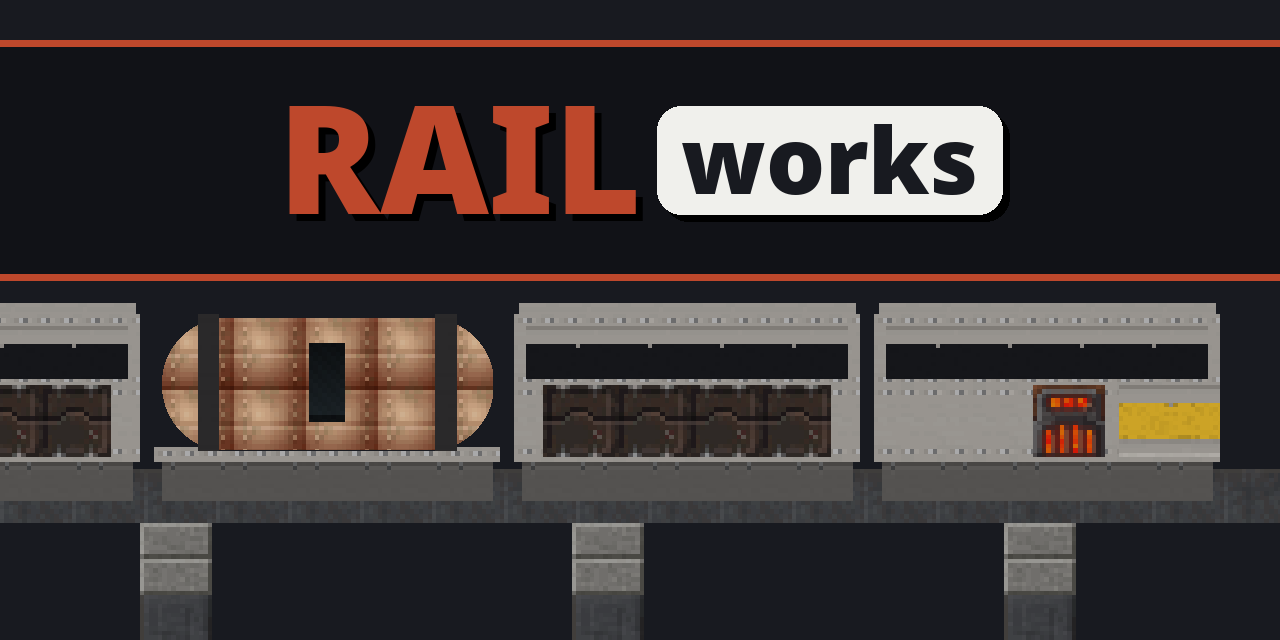
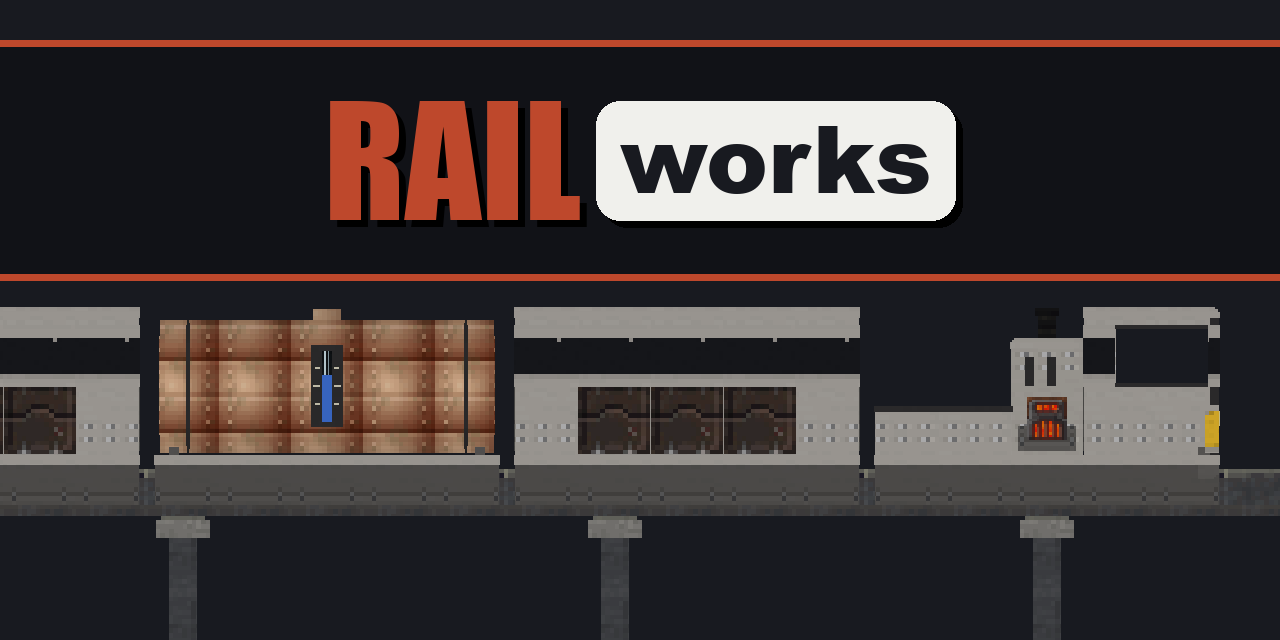
docs: draw the cars from CarBody, and write the blurb and summary
The cover and icon draw each car from its CarBody's boxes in the sprites
CarRenderer lays on them, and the Rail and Pylon at their real sizes, so
the Locomotives look like the game's. The icon centres its title band
between a Burner Train heading right and an Electric Train heading left,
and both are set in Impact as the other covers are. The summary and
mod_description now read "Automatic monorail trains that haul items and
fluids across your factory", and the README carries the maintainer's
blurb and "Why?".

Changed region(s): [[0.0, 0.4688, 1.0, 0.75], [0.2188, 0.1562, 0.7812, 0.3438], [0.0, 0.7812, 1.0, 1.0]]

diff --git a/publish/make-cover.py b/publish/make-cover.py
@@ -3,87 +3,171 @@
 
 # Cover and icon, in the suite's style (Wireworks' and Groundworks' make-cover.py): a row of Pylons
 # carrying the Rail, and a Train riding on it, seen from the side and drawn from Railworks' own
-# textures (scripts/build-textures.py), so nothing of Mojang's is in them (libworks ADR 0012). Run from
-# the repo root with Pillow installed.
+# textures (scripts/build-textures.py), so nothing of Mojang's is in them (libworks ADR 0012). Each car
+# is its CarBody's boxes, read from the compiled classes and laid in their panels' sprites as
+# CarRenderer lays them, so the cars are the game's own. Run from the repo root with Pillow installed,
+# after `sh ./gradlew compileJava`.
+import math
 import os
+import subprocess
+import tempfile
 
-from PIL import Image, ImageDraw, ImageFont
+from PIL import Image, ImageChops, ImageDraw, ImageFont
 
 T = 'src/main/resources/assets/railworks/textures/block/'
+CLASSES = 'build/classes/java/main'
 BG = (24, 26, 32)
 ACCENT = (190, 72, 44)  # rust red, the Rail's colour before it wore Riley's cement
 FADE = 50  # 0 leaves the scene at full strength, 255 hides it
 PYLON_PITCH = 6  # blocks between Pylons
-BEAM = 0.75  # the Rail's depth, in blocks
-# The Train from the front, each car's kind and length in blocks, as CarBody draws them
-TRAIN = [('burner', 5), ('cargo', 5), ('fluid', 5), ('cargo', 5)]
-GAP = 0.2  # between coupled bodies
+# RailGeometry: the flange the Rail rests on, the web the cars straddle, and its steel running strip
+FLANGE, WEB, STRIP = 0.15, 0.5, 2 / 16
+CAR_PITCH = 5  # coupled cars' middles apart
+# Each Train from the front, by the CarBody each car is
+TRAIN = ['burner', 'cargo', 'fluid', 'cargo']
+ELECTRIC_TRAIN = ['electric', 'fluid', 'fluid', 'cargo']
+FLUID = (63, 118, 228)  # what the Sight glasses show, water's blue as a flat colour
+FLUID_LEVEL = 0.65
 
+# CarRenderer.look, for a Locomotive holding fuel or charge: each panel's sprite, tint and how it is laid
+TILED, CENTRED, WHOLE, FLAT = 'tiled', 'centred', 'whole', 'flat'
+LOOKS = {
+    'SHELL': ('car/shell', None, TILED), 'ROOF': ('car/roof', None, TILED),
+    'SKIRT': ('car/skirt', None, TILED), 'TRIM': ('car/trim', None, TILED),
+    'WINDOW': ('car/window', None, CENTRED), 'BURNER_NOSE': ('car/burner_nose', None, CENTRED),
+    'ELECTRIC_NOSE': ('car/electric_nose', None, CENTRED), 'TANK': ('car/tank', None, TILED),
+    'FIREBOX': ('burner_generator/front_on', None, WHOLE), 'COIL': ('charger/sides', None, WHOLE),
+    'STACK': ('steel', (0x55, 0x50, 0x4C), TILED), 'LAMP': (None, (0xF2, 0xE5, 0x9E), FLAT),
+    'GLASS': ('car/sight_glass', None, WHOLE), 'GLINT': ('car/glint', None, WHOLE),
+    'MARK': (None, (0xE6, 0xE0, 0xC8), FLAT), 'CRATE': ('car/crate_side', None, WHOLE),
+}
+
+DUMP = """
+import io.github._5thlayer.railworks.rail.CarBody;
+class Dump {
+    static void box(String name, CarBody.Box b) {
+        System.out.println(name + " " + b.minX() + " " + b.minY() + " " + b.minZ() + " " + b.maxX() + " " + b.maxY() + " " + b.maxZ());
+    }
+    public static void main(String[] args) {
+        String[] names = {"burner", "electric", "cargo", "fluid"};
+        CarBody[] bodies = {CarBody.LOCOMOTIVE, CarBody.ELECTRIC, CarBody.CARGO, CarBody.FLUID};
+        for (int i = 0; i < bodies.length; i++) {
+            System.out.println("car " + names[i]);
+            for (CarBody.Part p : bodies[i].parts()) box(p.panel().name(), p.box());
+            for (CarBody.Box b : bodies[i].crates()) box("CRATE", b);
+            for (CarBody.SightGlass g : bodies[i].sightGlasses()) box("PANE", g.pane());
+        }
+    }
+}
+"""
+
+
+def bodies():
+    # every car's boxes, each (panel, minX, minY, minZ, maxX, maxY, maxZ), from CarBody itself
+    if not os.path.isdir(CLASSES):
+        raise SystemExit(f'no {CLASSES}: run sh ./gradlew compileJava first')
+    with tempfile.TemporaryDirectory() as tmp:
+        src = os.path.join(tmp, 'Dump.java')
+        with open(src, 'w') as f:
+            f.write(DUMP)
+        out = subprocess.run(['java', '--class-path', CLASSES, src], check=True, capture_output=True, text=True).stdout
+    cars, boxes = {}, None
+    for row in out.split('\n'):
+        word = row.split()
+        if not word:
+            continue
+        if word[0] == 'car':
+            boxes = cars[word[1]] = []
+        else:
+            boxes.append((word[0], *map(float, word[1:])))
+    return cars
+
+
+BODIES = bodies()
 _cache = {}
 
 
-def tex(name, s):
-    if (name, s) not in _cache:
-        _cache[name, s] = Image.open(f'{T}{name}.png').convert('RGBA').crop((0, 0, 16, 16)).resize((s, s), Image.NEAREST)
-    return _cache[name, s]
+def sprite(name, crop=(0, 0, 16, 16)):
+    if (name, crop) not in _cache:
+        _cache[name, crop] = Image.open(f'{T}{name}.png').convert('RGBA').crop(crop)
+    return _cache[name, crop]
 
 
-def tile(img, name, s, x0, y0, x1, y1):
-    # lay a sprite at s px per block across a box, from its own top-left,
-    x0, y0, x1, y1 = round(x0), round(y0), round(x1), round(y1)
-    t = tex(name, s)
-    for y in range(y0, y1, s):
-        for x in range(x0, x1, s):
-            piece = t.crop((max(0, x0 - x), max(0, y0 - y), min(s, x1 - x), min(s, y1 - y)))
+def tinted(img, colour):
+    if colour is None:
+        return img
+    rgb = ImageChops.multiply(img.convert('RGB'), Image.new('RGB', img.size, colour))
+    rgb.putalpha(img.getchannel('A'))
+    return rgb
+
+
+def tiled(img, tile, x0, y0, x1, y1, ax, ay):
+    # tile across a box, the tiles' corners on (ax, ay) and every tile's size from it
+    tw, th = tile.size
+    for y in range(ay + math.floor((y0 - ay) / th) * th, y1, th):
+        for x in range(ax + math.floor((x0 - ax) / tw) * tw, x1, tw):
+            piece = tile.crop((max(0, x0 - x), max(0, y0 - y), min(tw, x1 - x), min(th, y1 - y)))
             img.alpha_composite(piece, (max(x, x0), max(y, y0)))
 
 
-def car(img, kind, s, front, length, top):
-    # one car seen from the side, facing right: its front at x = front, its roof at y = top
-    back = front - (length - GAP) * s
-    b = lambda h: top + (2.75 - h) * s  # a height above the floor's underside, in px
-    tile(img, 'car/skirt', s, back + 0.1 * s, b(0.62), front - 0.1 * s, b(0))
-    if kind == 'fluid':
-        # a frame under a round tank, banded at its ends and carrying a Sight glass
-        tile(img, 'car/shell', s, back, b(0.75), front, b(0.55))
-        tank = Image.new('RGBA', img.size, (0, 0, 0, 0))
-        tile(tank, 'car/tank', s, back + 0.1 * s, b(2.55), front - 0.1 * s, b(0.72))
-        mask = Image.new('L', img.size, 0)
-        ImageDraw.Draw(mask).rounded_rectangle([back + 0.1 * s, b(2.55), front - 0.1 * s, b(0.72)], radius=0.9 * s, fill=255)
-        img.paste(tank, (0, 0), mask)
-        for x in (back + 0.6 * s, front - 0.9 * s):
-            tile(img, 'car/trim', s, x, b(2.6), x + 0.3 * s, b(0.7))
-        mid = (back + front) / 2
-        tile(img, 'car/sight_glass', s, mid - 0.25 * s, b(2.2), mid + 0.25 * s, b(1.1))
-        return
-    tile(img, 'car/shell', s, back, b(2.6), front, b(0.55))
-    tile(img, 'car/roof', s, back + 0.06 * s, b(2.75), front - 0.06 * s, b(2.6))
-    tile(img, 'car/window', s, back + 0.16 * s, b(2.44), front - 0.16 * s, b(1.7))
-    if kind == 'cargo':
-        # its row of crates, a block square each, set into the side under the window band
-        n = int(length - 1)
-        x = (back + front) / 2 - n * s / 2
-        for i in range(n):
-            tile(img, 'car/crate_side', s, x + i * s, b(1.62), x + (i + 1) * s, b(0.62))
-    else:
-        # the Burner Locomotive's nose band and its firebox door
-        tile(img, 'car/burner_nose', s, front - 1.4 * s, b(1.62), front, b(0.62))
-        tile(img, 'burner_generator/front_on', s, front - 2.6 * s, b(1.62), front - 1.6 * s, b(0.62))
+def car(img, kind, s, cx, ride):
+    # a car seen from its left side, its front to the right: its middle at x = cx, the bottom of its
+    # box, on the Rail's flange, at y = ride. Each box shows its -x face, the farthest first, the
+    # ones deeper in the car shaded darker.
+    boxes = BODIES[kind]
+    for panel, x0, y0, z0, x1, y1, z1 in sorted(boxes, key=lambda b: -b[1]):
+        if panel == 'PANE':
+            continue
+        name, colour, lay = LOOKS[panel]
+        left, right = round(cx + z0 * s), round(cx + z1 * s)
+        top, bottom = round(ride - y1 * s), round(ride - y0 * s)
+        if right <= left or bottom <= top:
+            continue
+        shade = 1 - 0.45 * min(1.0, max(0.0, (x0 + 0.99) / 1.9))
+        light = tuple(round(c * shade) for c in (colour or (255, 255, 255)))
+        if lay == FLAT:
+            img.alpha_composite(Image.new('RGBA', (right - left, bottom - top), light + (255,)), (left, top))
+        elif lay == WHOLE:
+            img.alpha_composite(tinted(sprite(name), light).resize((right - left, bottom - top), Image.NEAREST), (left, top))
+        else:
+            # tiled a block to a tile from the block edges either side of the car's middle block, and a
+            # band's sprite centred up it
+            lift = 0.5 - (y0 + y1) / 2 if lay == CENTRED else 0.0
+            tile = tinted(sprite(name), light).resize((s, s), Image.NEAREST)
+            tiled(img, tile, left, top, right, bottom, round(cx - 0.5 * s), round(ride + lift * s))
+    for panel, x0, y0, z0, x1, y1, z1 in boxes:
+        if panel == 'PANE' and x0 < 0:
+            # the near Sight glass, its fluid up to the level
+            fill = y0 + (y1 - y0) * FLUID_LEVEL
+            img.alpha_composite(Image.new('RGBA', (round((z1 - z0) * s), round((fill - y0) * s)), FLUID + (255,)),
+                                (round(cx + z0 * s), round(ride - fill * s)))
 
 
-def scene(W, H, s, rail_top, margin):
-    # the Locomotive's front margin px short of the right edge, and a Pylon under its cab
-    img = Image.new('RGBA', (W, H), BG + (255,))
-    beam = rail_top + BEAM * s
-    front = W - margin
-    # Pylons: a cement post up from the bottom, capped under the Rail
-    for x in range(front - 3 * s - (front - 3 * s) // (PYLON_PITCH * s) * PYLON_PITCH * s - PYLON_PITCH * s, W, PYLON_PITCH * s):
-        tile(img, 'pylon/post', s, x, beam + s, x + s, H)
-        tile(img, 'pylon/cap', s, x, beam, x + s, beam + s)
-    tile(img, 'rail/cement', s, 0, rail_top, W, beam)
-    for kind, length in TRAIN:
-        car(img, kind, s, front, length, rail_top + 0.45 * s - 2.75 * s)
-        front -= length * s
+def line(W, H, s, rail_top, margin, train):
+    # a line of Pylons and its Train heading right, the Locomotive's front margin px short of the right
+    # edge and a Pylon under its Engine room; rail_top is the top of the Rail's web
+    img = Image.new('RGBA', (W, H), (0, 0, 0, 0))
+    ride = round(rail_top + WEB * s)
+    arm = round(ride + FLANGE * s)  # a Pylon's top, which the flange rests on
+    cx = round(W - margin - 2.4 * s)
+    px = lambda n: round(n * s / 16)  # pixels of a 16-pixel block
+    # Pylons: a cement post up from the bottom, its top segment capped under a steel plate (SpanRenderer)
+    pitch = PYLON_PITCH * s
+    for x in range(round(cx - 0.5 * s) % pitch - pitch, W, pitch):
+        tiled(img, sprite('pylon/post', (5, 0, 11, 16)).resize((px(6), s), Image.NEAREST),
+              x + px(5), arm, x + px(11), H, x + px(5), arm)
+        tiled(img, sprite('pylon/cap', (2, 1, 14, 5)).resize((px(12), px(4)), Image.NEAREST),
+              x + px(2), arm + px(1), x + px(14), arm + px(5), x + px(2), arm + px(1))
+        tiled(img, sprite('steel', (3, 0, 13, 1)).resize((px(10), px(1)), Image.NEAREST),
+              x + px(3), arm, x + px(13), arm + px(1), x + px(3), arm)
+    # the Rail: the flange, the web over it and the steel strip along the web's top
+    cement = sprite('rail/cement').resize((s, s), Image.NEAREST)
+    tiled(img, cement, 0, ride, W, arm, 0, ride)
+    tiled(img, cement, 0, round(rail_top), W, ride, 0, round(rail_top))
+    tiled(img, sprite('steel').resize((s, s), Image.NEAREST), 0, round(rail_top), W, round(rail_top + STRIP * s),
+          0, round(rail_top))
+    for i, kind in enumerate(train):
+        car(img, kind, s, cx - i * CAR_PITCH * s, ride)
     return img
 
 
@@ -94,10 +178,17 @@ def font(names, size):
     raise SystemExit('needs one of ' + ', '.join(names))
 
 
-def make(W, H, out, title_size, s, margin):
+def make(W, H, out, title_size, s, band_at, lines=None):
+    # lines: each (rail_top, margin, train, heading left), back to front; by default one Train just under
+    # the band
     bh = int(title_size * 1.6)
-    cy = int(H * 0.25)
-    img = scene(W, H, s, cy + bh // 2 + s // 3 + int(2.3 * s), margin)
+    cy = int(H * band_at)  # the title band's middle, as a fraction of the height
+    if lines is None:
+        lines = [(cy + bh // 2 + s // 3 + int(2.3 * s), 60, TRAIN, False)]
+    img = Image.new('RGBA', (W, H), BG + (255,))
+    for rail_top, margin, train, left in lines:
+        layer = line(W, H, s, rail_top, margin, train)
+        img.alpha_composite(layer.transpose(Image.FLIP_LEFT_RIGHT) if left else layer)
     img = Image.alpha_composite(img, Image.new('RGBA', (W, H), BG + (FADE,)))
     band = Image.new('RGBA', (W, H), (0, 0, 0, 0))
     ImageDraw.Draw(band).rectangle([0, cy - bh // 2, W, cy + bh // 2], fill=(16, 17, 22, 225))
@@ -128,5 +219,8 @@ def make(W, H, out, title_size, s, margin):
     img.convert('RGB').save(out)
 
 
-make(1280, 640, 'publish/railworks-cover.png', 150, 72, 60)
-make(512, 512, 'publish/railworks-icon.png', 80, 44, 24)
+make(1280, 640, 'publish/railworks-cover.png', 150, 72, 0.25)
+# the icon's Burner Train runs right above the band, its Pylons standing down behind it, and an Electric
+# Train runs left below it
+make(512, 512, 'publish/railworks-icon.png', 80, 40, 0.5,
+     [(140, 20, TRAIN, False), (432, 20, ELECTRIC_TRAIN, True)])

diff --git a/README.md b/README.md
@@ -4,13 +4,11 @@
 and how it feels to play. It is also the Modrinth and CurseForge description
 (docs/agents/publishing.md). The technical sections go below it. -->
 
-> **Placeholder for the maintainer to rewrite:** the blurb and "Why?" below are the maintainer's to write, never an agent's (`docs/agents/publishing.md`).
-
-Factorio's trains as a straddle-beam monorail.
+Railworks adds trains running on a monorail. A train is built by stringing a rail between pylons, setting a locomotive on it and coupling cargo and fluid cars behind it. Automatic trains can transport items and fluids from a station that provides them to one that requests them. Players, and a pet or any other mob, can also be transported by riding on the locomotive and setting it on manual drive.
 
 ## Why?
 
-*Placeholder for the maintainer to rewrite.*
+Because it was the missing piece of my -works suite: intra-dimensional long haul logistics to complement short range belts and inter-dimensional void dragons.
 
 **NeoForge, Minecraft 26.1.2 only.** Please report anything odd on [GitHub](https://github.com/5thlayer/railworks/issues).
 
